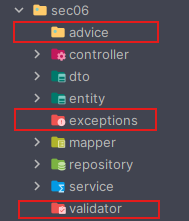
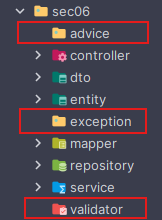
Configuración del proyecto

diff --git a/projects/webflux-playground/src/main/java/dev/magadiflo/app/sec06/controller/CustomerController.java b/projects/webflux-playground/src/main/java/dev/magadiflo/app/sec06/controller/CustomerController.java
@@ -1,0 +1,91 @@
+package dev.magadiflo.app.sec06.controller;
+
+import dev.magadiflo.app.sec06.dto.CustomerRequest;
+import dev.magadiflo.app.sec06.dto.CustomerResponse;
+import dev.magadiflo.app.sec06.service.CustomerService;
+import lombok.RequiredArgsConstructor;
+import lombok.extern.slf4j.Slf4j;
+import org.springframework.data.domain.Page;
+import org.springframework.data.domain.PageRequest;
+import org.springframework.http.HttpStatus;
+import org.springframework.http.ResponseEntity;
+import org.springframework.web.bind.annotation.DeleteMapping;
+import org.springframework.web.bind.annotation.GetMapping;
+import org.springframework.web.bind.annotation.PathVariable;
+import org.springframework.web.bind.annotation.PostMapping;
+import org.springframework.web.bind.annotation.PutMapping;
+import org.springframework.web.bind.annotation.RequestBody;
+import org.springframework.web.bind.annotation.RequestMapping;
+import org.springframework.web.bind.annotation.RequestParam;
+import org.springframework.web.bind.annotation.RestController;
+import reactor.core.publisher.Flux;
+import reactor.core.publisher.Mono;
+
+import java.util.List;
+
+@Slf4j
+@RequiredArgsConstructor
+@RestController
+@RequestMapping(path = "/api/{version}/customers", version = "1")
+public class CustomerController {
+
+    private final CustomerService customerService;
+
+    @GetMapping
+    public Mono<ResponseEntity<Flux<CustomerResponse>>> allCustomers() {
+        Flux<CustomerResponse> customerResponseFlux = this.customerService.getAllCustomers()
+                .doOnNext(customer -> log.info(customer.toString()));
+        return Mono.fromSupplier(() -> ResponseEntity.ok(customerResponseFlux));
+    }
+
+    @GetMapping(path = "/simple-pagination")
+    public Mono<ResponseEntity<List<CustomerResponse>>> getSimplePaginationCustomers(
+            @RequestParam(name = "page", required = false, defaultValue = "0") int pageNumber,
+            @RequestParam(name = "size", required = false, defaultValue = "5") int pageSize) {
+        return this.customerService.getAllCustomers(pageNumber, pageSize)
+                .collectList()
+                .map(ResponseEntity::ok);
+    }
+
+    @GetMapping(path = "/advanced-pagination")
+    public Mono<ResponseEntity<Page<CustomerResponse>>> getAdvancedPaginationCustomers(
+            @RequestParam(name = "page", required = false, defaultValue = "0") int pageNumber,
+            @RequestParam(name = "size", required = false, defaultValue = "5") int pageSize) {
+        return this.customerService.getAllCustomers(PageRequest.of(pageNumber, pageSize))
+                .map(ResponseEntity::ok);
+    }
+
+    @GetMapping(path = "/{customerId}")
+    public Mono<ResponseEntity<CustomerResponse>> getCustomer(@PathVariable Long customerId) {
+        return this.customerService.getCustomer(customerId)
+                .map(ResponseEntity::ok)
+                .defaultIfEmpty(ResponseEntity.notFound().build());
+    }
+
+    @PostMapping
+    public Mono<ResponseEntity<CustomerResponse>> saveCustomer(@RequestBody Mono<CustomerRequest> requestMono) {
+        return requestMono
+                .flatMap(this.customerService::saveCustomer)
+                .map(customerResponse -> ResponseEntity
+                        .status(HttpStatus.CREATED)
+                        .body(customerResponse)
+                );
+    }
+
+    @PutMapping(path = "/{customerId}")
+    public Mono<ResponseEntity<CustomerResponse>> updateCustomer(@PathVariable Long customerId,
+                                                                 @RequestBody Mono<CustomerRequest> requestMono) {
+        return requestMono
+                .flatMap(request -> this.customerService.updateCustomer(customerId, request))
+                .map(ResponseEntity::ok)
+                .defaultIfEmpty(ResponseEntity.notFound().build());
+    }
+
+    @DeleteMapping(path = "/{customerId}")
+    public Mono<ResponseEntity<Void>> deleteCustomer(@PathVariable Long customerId) {
+        return this.customerService.deleteCustomer(customerId)
+                .filter(wasDeleted -> wasDeleted)
+                .map(wasDeleted -> ResponseEntity.noContent().<Void>build())
+                .defaultIfEmpty(ResponseEntity.notFound().build());
+    }
+}

diff --git a/projects/webflux-playground/src/main/java/dev/magadiflo/app/sec06/service/impl/CustomerServiceImpl.java b/projects/webflux-playground/src/main/java/dev/magadiflo/app/sec06/service/impl/CustomerServiceImpl.java
@@ -1,0 +1,75 @@
+package dev.magadiflo.app.sec06.service.impl;
+
+import dev.magadiflo.app.sec06.dto.CustomerRequest;
+import dev.magadiflo.app.sec06.dto.CustomerResponse;
+import dev.magadiflo.app.sec06.mapper.CustomerMapper;
+import dev.magadiflo.app.sec06.repository.CustomerRepository;
+import dev.magadiflo.app.sec06.service.CustomerService;
+import lombok.RequiredArgsConstructor;
+import lombok.extern.slf4j.Slf4j;
+import org.springframework.data.domain.Page;
+import org.springframework.data.domain.PageImpl;
+import org.springframework.data.domain.PageRequest;
+import org.springframework.data.domain.Pageable;
+import org.springframework.stereotype.Service;
+import reactor.core.publisher.Flux;
+import reactor.core.publisher.Mono;
+
+@Slf4j
+@RequiredArgsConstructor
+@Service
+public class CustomerServiceImpl implements CustomerService {
+
+    private final CustomerRepository customerRepository;
+    private final CustomerMapper customerMapper;
+
+    @Override
+    public Flux<CustomerResponse> getAllCustomers() {
+        return this.customerRepository.findAll()
+                .map(this.customerMapper::toCustomerResponse);
+    }
+
+    @Override
+    public Flux<CustomerResponse> getAllCustomers(int pageNumber, int pageSize) {
+        return this.customerRepository.findBy(PageRequest.of(pageNumber, pageSize))
+                .map(this.customerMapper::toCustomerResponse);
+    }
+
+    @Override
+    public Mono<Page<CustomerResponse>> getAllCustomers(Pageable pageable) {
+        return this.customerRepository.findBy(pageable)
+                .map(this.customerMapper::toCustomerResponse)
+                .collectList()
+                .zipWith(
+                        this.customerRepository.count(),
+                        (customerResponseList, total) -> new PageImpl<>(customerResponseList, pageable, total)
+                );
+    }
+
+    @Override
+    public Mono<CustomerResponse> getCustomer(Long customerId) {
+        return this.customerRepository.findById(customerId)
+                .map(this.customerMapper::toCustomerResponse);
+    }
+
+    @Override
+    public Mono<CustomerResponse> saveCustomer(CustomerRequest customerRequest) {
+        return Mono.just(customerRequest)
+                .map(this.customerMapper::toCustomer)
+                .flatMap(this.customerRepository::save)
+                .map(this.customerMapper::toCustomerResponse);
+    }
+
+    @Override
+    public Mono<CustomerResponse> updateCustomer(Long customerId, CustomerRequest customerRequest) {
+        return this.customerRepository.findById(customerId)
+                .map(customer -> this.customerMapper.toCustomerUpdate(customer, customerRequest))
+                .flatMap(this.customerRepository::save)
+                .map(this.customerMapper::toCustomerResponse);
+    }
+
+    @Override
+    public Mono<Boolean> deleteCustomer(Long customerId) {
+        return this.customerRepository.deleteCustomerById(customerId);
+    }
+}

diff --git a/projects/webflux-playground/src/main/java/dev/magadiflo/app/sec06/mapper/CustomerMapper.java b/projects/webflux-playground/src/main/java/dev/magadiflo/app/sec06/mapper/CustomerMapper.java
@@ -1,0 +1,31 @@
+package dev.magadiflo.app.sec06.mapper;
+
+import dev.magadiflo.app.sec06.dto.CustomerRequest;
+import dev.magadiflo.app.sec06.dto.CustomerResponse;
+import dev.magadiflo.app.sec06.entity.Customer;
+import org.springframework.stereotype.Component;
+
+@Component
+public class CustomerMapper {
+
+    public Customer toCustomer(CustomerRequest request) {
+        return Customer.builder()
+                .name(request.name())
+                .email(request.email())
+                .build();
+    }
+
+    public Customer toCustomerUpdate(Customer customer, CustomerRequest request) {
+        customer.setName(request.name());
+        customer.setEmail(request.email());
+        return customer;
+    }
+
+    public CustomerResponse toCustomerResponse(Customer customer) {
+        return new CustomerResponse(
+                customer.getId(),
+                customer.getName(),
+                customer.getEmail()
+        );
+    }
+}

diff --git a/projects/webflux-playground/src/main/java/dev/magadiflo/app/sec06/service/CustomerService.java b/projects/webflux-playground/src/main/java/dev/magadiflo/app/sec06/service/CustomerService.java
@@ -1,0 +1,24 @@
+package dev.magadiflo.app.sec06.service;
+
+import dev.magadiflo.app.sec06.dto.CustomerRequest;
+import dev.magadiflo.app.sec06.dto.CustomerResponse;
+import org.springframework.data.domain.Page;
+import org.springframework.data.domain.Pageable;
+import reactor.core.publisher.Flux;
+import reactor.core.publisher.Mono;
+
+public interface CustomerService {
+    Flux<CustomerResponse> getAllCustomers();
+
+    Flux<CustomerResponse> getAllCustomers(int pageNumber, int pageSize);
+
+    Mono<Page<CustomerResponse>> getAllCustomers(Pageable pageable);
+
+    Mono<CustomerResponse> getCustomer(Long customerId);
+
+    Mono<CustomerResponse> saveCustomer(CustomerRequest customerRequest);
+
+    Mono<CustomerResponse> updateCustomer(Long customerId, CustomerRequest customerRequest);
+
+    Mono<Boolean> deleteCustomer(Long customerId);
+}

diff --git a/projects/webflux-playground/src/main/java/dev/magadiflo/app/sec06/repository/CustomerRepository.java b/projects/webflux-playground/src/main/java/dev/magadiflo/app/sec06/repository/CustomerRepository.java
@@ -1,0 +1,17 @@
+package dev.magadiflo.app.sec06.repository;
+
+import dev.magadiflo.app.sec06.entity.Customer;
+import org.springframework.data.domain.Pageable;
+import org.springframework.data.r2dbc.repository.Modifying;
+import org.springframework.data.r2dbc.repository.Query;
+import org.springframework.data.repository.reactive.ReactiveCrudRepository;
+import reactor.core.publisher.Flux;
+import reactor.core.publisher.Mono;
+
+public interface CustomerRepository extends ReactiveCrudRepository<Customer, Long> {
+    @Modifying
+    @Query("DELETE FROM customers WHERE id = :customerId")
+    Mono<Boolean> deleteCustomerById(Long customerId);
+
+    Flux<Customer> findBy(Pageable pageable);
+}

diff --git a/projects/webflux-playground/src/main/java/dev/magadiflo/app/sec06/entity/Customer.java b/projects/webflux-playground/src/main/java/dev/magadiflo/app/sec06/entity/Customer.java
@@ -1,0 +1,24 @@
+package dev.magadiflo.app.sec06.entity;
+
+import lombok.AllArgsConstructor;
+import lombok.Builder;
+import lombok.Getter;
+import lombok.NoArgsConstructor;
+import lombok.Setter;
+import lombok.ToString;
+import org.springframework.data.annotation.Id;
+import org.springframework.data.relational.core.mapping.Table;
+
+@ToString
+@AllArgsConstructor
+@NoArgsConstructor
+@Builder
+@Setter
+@Getter
+@Table(name = "customers")
+public class Customer {
+    @Id
+    private Long id;
+    private String name;
+    private String email;
+}

diff --git a/projects/webflux-playground/src/main/java/dev/magadiflo/app/sec06/dto/CustomerResponse.java b/projects/webflux-playground/src/main/java/dev/magadiflo/app/sec06/dto/CustomerResponse.java
@@ -1,0 +1,6 @@
+package dev.magadiflo.app.sec06.dto;
+
+public record CustomerResponse(Long id,
+                               String name,
+                               String email) {
+}

diff --git a/projects/webflux-playground/src/main/java/dev/magadiflo/app/sec06/dto/CustomerRequest.java b/projects/webflux-playground/src/main/java/dev/magadiflo/app/sec06/dto/CustomerRequest.java
@@ -1,0 +1,5 @@
+package dev.magadiflo.app.sec06.dto;
+
+public record CustomerRequest(String name,
+                              String email) {
+}

diff --git a/06.input_validation_error_handling.md b/06.input_validation_error_handling.md
@@ -114,3 +114,19 @@ Si aun así estás interesado en usar `Bean Validation` en `WebFlux`, puedes enc
 - Sin embargo, en este curso construiremos validaciones manuales para comprender mejor el flujo de errores en
   aplicaciones reactivas.
 - Esto nos dará mayor control y flexibilidad para implementar reglas personalizadas en escenarios reales.
+
+## ⚙ Configuración del proyecto
+
+Para ahorrar tiempo en desarrollo, en esta nueva sección copiamos todo lo que hicimos en la sección  
+`dev/magadiflo/app/sec05` y lo pegamos en nuestro nuevo directorio `dev/magadiflo/app/sec06`.
+
+### 📂 Nuevos paquetes creados
+
+Además, añadimos tres paquetes adicionales que serán implementados en apartados siguientes:
+
+- `advice` → contendrá las clases de manejo global de excepciones (`@RestControllerAdvice`).
+- `exception` → definirá nuestras excepciones personalizadas.
+- `validator` → incluirá las validaciones manuales que construiremos para los DTOs y requests.
+
+![02.png](assets/section-06/02.png)
+
